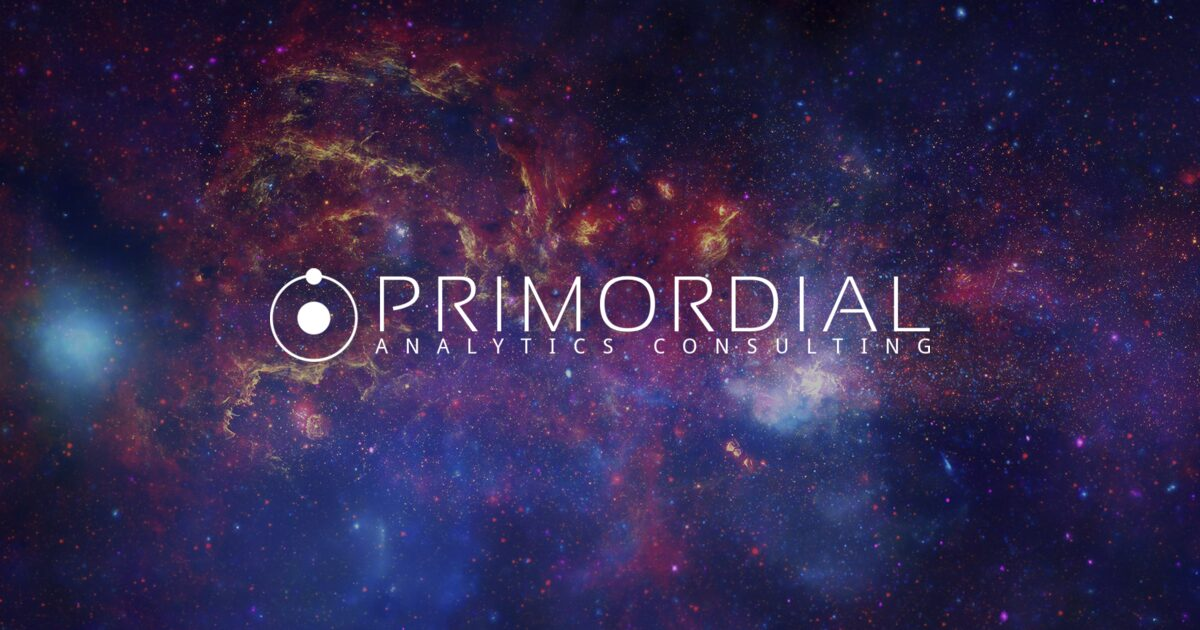
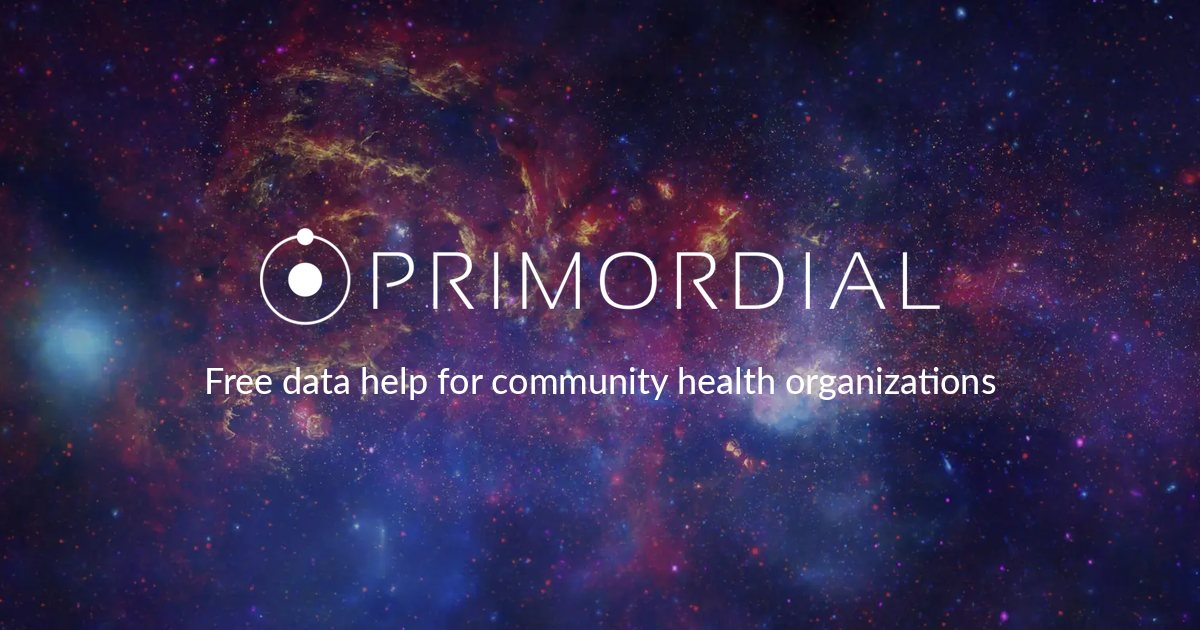
fix: remove fabricated team members and testimonials
Only Ken Cavagnolo is real, and the four testimonials were placeholders.
Remove the invented people, their photos, the testimonials collection
and its home page section, and team claims in case studies 03 and 05.
Reframe the about, people and hero copy as principal-led (you work
directly with Ken) and enable his real social links. The default share
image drops the "Analytics Consulting" tagline.

Changed region(s): [[0.1542, 0.3619, 0.8325, 0.6333]]

diff --git a/people.html b/people.html
@@ -1,7 +1,7 @@
 ---
 layout: default
-title: Our people and our story
-description: "A small Portland team founded in 2018 that has volunteered its data skills for community health organizations since 2024. Meet us, and find out how to volunteer too."
+title: About Primordial Analytics
+description: "Primordial Analytics is principal-led: you work directly with founder and data scientist Ken Cavagnolo, in Portland, Oregon. Free help for community health organizations since 2024. Find out how to volunteer too."
 permalink: /people.html
 ---
 
@@ -10,14 +10,25 @@ permalink: /people.html
         <!-- Intro -->
         <div class="row mb-5 align-items-center">
             <div class="col-lg-6 pe-lg-5 mb-5 mb-lg-0">
-                <h2 class="display-5 fw-bold mb-4 lh-sm">A small team, glad to be here.</h2>
-                <p class="lead text-muted fs-4 mb-4">Primordial Analytics was incorporated on August 9, 2018. We began as a small group of data scientists, engineers, and AI experts doing client work for people who already knew us as individuals.</p>
-                <p class="text-muted fs-5 lh-lg mb-4">In 2024 we turned our attention to volunteer data science for non-profit community health organizations, and we kept serving our longtime clients on a smaller scale.</p>
+                <h2 class="display-5 fw-bold mb-4 lh-sm">Principal-led, on purpose.</h2>
+                <p class="lead text-muted fs-4 mb-4">Primordial Analytics was founded on August 9, 2018. You work directly with Ken Cavagnolo, the founder and data scientist, who does the work himself. There are no hand-offs to juniors, and one accountable person answers for your data. That suits small, high-trust data work. He started out doing client work for people who already knew him.</p>
+                <p class="text-muted fs-5 lh-lg mb-4">In 2024 the firm turned its attention to free volunteer data science for non-profit community health organizations, and it kept doing some paid work for longtime clients.</p>
                 <p class="text-muted fs-5 lh-lg">This has been a hard year for the community health organizations we exist to serve. Fewer people asked for our help, which makes sense: even free analytics costs the hours of a person to explain the data and act on it. <a href="{{ site.baseurl }}/blog/anniversary-8/">We wrote about it on our eighth anniversary</a>.</p>
             </div>
             <div class="col-lg-6">
-                <div class="ratio ratio-4x3 shadow-lg rounded-4 overflow-hidden">
-                    <img src="/img/stock/team-collab.webp" width="1200" height="800" loading="lazy" class="object-fit-cover" alt="People working on laptops around a wooden table">
+                {% assign ken = site.team | first %}
+                <div class="card border-0 shadow-lg rounded-4 bg-light p-4 p-md-5 text-center">
+                    <div class="mb-4">
+                        <img class="rounded-circle shadow-sm object-fit-cover" src="{{ site.baseurl }}/img/team/{{ ken.pic }}" alt="" width="150" height="150" loading="lazy" style="width: 150px; height: 150px; border: 4px solid #fff;">
+                    </div>
+                    <h3 class="h4 fw-bold mb-1">{{ ken.name }}</h3>
+                    <p class="text-primary fw-semibold mb-3">{{ ken.position }}</p>
+                    <p class="text-muted fs-6 lh-lg mb-3">{{ ken.blurb }}</p>
+                    <ul class="list-inline mb-0">
+                        {% for network in ken.social %}
+                        <li class="list-inline-item"><a target="_blank" rel="noopener" href="{{ network.url }}" aria-label="{% if network.label == 'Website' %}{{ ken.name }}'s website{% else %}{{ ken.name }} on {{ network.label }}{% endif %} (opens in a new tab)">{{ network.label }}</a></li>
+                        {% endfor %}
+                    </ul>
                 </div>
             </div>
         </div>
@@ -47,7 +58,7 @@ permalink: /people.html
                             <svg width="40" height="40" viewBox="0 0 24 24" fill="none" stroke="currentColor" stroke-width="1.5" stroke-linecap="round" stroke-linejoin="round" class="text-primary" aria-hidden="true"><circle cx="18" cy="5" r="3"></circle><circle cx="6" cy="12" r="3"></circle><circle cx="18" cy="19" r="3"></circle><line x1="8.59" y1="13.51" x2="15.42" y2="17.49"></line><line x1="15.41" y1="6.51" x2="8.59" y2="10.49"></line></svg>
                         </div>
                         <h3 class="card-title h4 fw-bold mb-3">Share what we build</h3>
-                        <p class="card-text text-muted fs-6 lh-lg">We would like busy teams to be able to pick up what we make on a Tuesday afternoon, without a kickoff meeting.</p>
+                        <p class="card-text text-muted fs-6 lh-lg">We would like busy health teams to be able to pick up what we make on a Tuesday afternoon, without a kickoff meeting.</p>
                     </div>
                 </div>
             </div>
@@ -74,11 +85,11 @@ permalink: /people.html
         <div class="row justify-content-center">
             <div class="col-lg-9">
                 <h2 class="display-5 fw-bold mb-4 lh-sm">Want to lend your skills?</h2>
-                <p class="lead text-muted fs-4 mb-4">We are always glad to hear from fellow data enthusiasts who want to make healthcare better for everyone.</p>
+                <p class="lead text-muted fs-4 mb-4">We welcome volunteers who do end-to-end data science. We are glad to hear from fellow data enthusiasts who want to make healthcare better for everyone.</p>
                 <h3 class="h4 fw-bold mb-2">Who we are looking for</h3>
                 <p class="text-muted fs-5 lh-lg mb-4">Fellow data enthusiasts: anyone who enjoys turning a messy spreadsheet into something a busy person can use.</p>
                 <h3 class="h4 fw-bold mb-2">What it is</h3>
-                <p class="text-muted fs-5 lh-lg mb-4">Volunteers help us offer free data science to community health organizations. The asks are small by design, so tell us what you are good at and how much time you might have.</p>
+                <p class="text-muted fs-5 lh-lg mb-4">Volunteers help us offer free data science to community health organizations, and the work is the full end-to-end job: framing the question, finding and cleaning data, engineering pipelines, analysis and modeling, visualization, and explaining the results to the people who will act on them. The first asks are small by design, so tell us what you are good at and how much time you might have.</p>
                 <h3 class="h4 fw-bold mb-2">How to raise your hand</h3>
                 <p class="text-muted fs-5 lh-lg mb-4">Send us a note through the contact form. Say you would like to volunteer, and tell us a little about your skills.</p>
                 <a href="{{ site.baseurl }}/#contact" class="btn btn-primary btn-lg px-5 py-3 text-uppercase fw-bold rounded-pill shadow text-dark">Volunteer with us</a>
@@ -96,9 +107,9 @@ permalink: /people.html
                     <img src="/img/stock/cosmos.webp" width="1600" height="1065" loading="lazy" class="position-absolute top-0 start-0 w-100 h-100 object-fit-cover" alt="">
                     <div class="position-absolute top-0 start-0 w-100 h-100 bg-dark opacity-75"></div>
                     <div class="position-relative z-1 py-4">
-                        <h2 class="fw-bold mb-3 display-6">Meet the team</h2>
-                        <p class="lead mb-4 text-white fs-4">Get to know the people behind Primordial Analytics.</p>
-                        <a href="{{ site.baseurl }}/#about" class="btn btn-primary btn-lg px-5 py-3 text-uppercase fw-bold rounded-pill shadow mt-3 text-dark">View Our Team</a>
+                        <h2 class="fw-bold mb-3 display-6">Have a data question?</h2>
+                        <p class="lead mb-4 text-white fs-4">Free data help. We usually reply within a few business days.</p>
+                        <a href="{{ site.baseurl }}/community-health-data-help/" class="btn btn-primary btn-lg px-5 py-3 text-uppercase fw-bold rounded-pill shadow mt-3 text-dark">Ask for free data help</a>
                     </div>
                 </div>
             </div>

diff --git a/_includes/about.html b/_includes/about.html
@@ -5,7 +5,7 @@
         <div class="row mb-5 text-center">
             <div class="col-lg-8 offset-lg-2">
                 <h2 class="display-5 fw-bold mb-3">About Us</h2>
-                <p class="lead text-muted fs-4">A small Portland team that gives its data skills to community health.</p>
+                <p class="lead text-muted fs-4">Principal-led data science from Portland, free for community health.</p>
             </div>
         </div>
         
@@ -18,7 +18,7 @@
                     <div class="tufte-year">2018</div>
                     <div class="tufte-content">
                         <h3 class="tufte-title">We opened our doors</h3>
-                        <p class="tufte-desc">Primordial Analytics was incorporated on August 9, 2018, by a small group of data scientists, engineers, and AI experts. Our first clients already knew us as individuals.</p>
+                        <p class="tufte-desc">Primordial Analytics was founded on August 9, 2018, by Ken Cavagnolo, a data scientist. The first clients already knew him personally.</p>
                     </div>
                 </div>
 
@@ -27,7 +27,7 @@
                     <div class="tufte-year">2024</div>
                     <div class="tufte-content">
                         <h3 class="tufte-title">We turned to volunteer work</h3>
-                        <p class="tufte-desc">We shifted our focus to volunteer data science for non-profit community health organizations, and kept serving our longtime clients on a smaller scale.</p>
+                        <p class="tufte-desc">The firm shifted its focus to free volunteer data science for non-profit community health organizations, and kept doing some paid work for longtime clients.</p>
                     </div>
                 </div>
 
@@ -37,7 +37,7 @@
                     <div class="tufte-content">
                         <h3 class="tufte-title">Quieter, and still here</h3>
                         <p class="tufte-desc">It has been a hard year for community health organizations, so we are keeping our help small and light: a chart, a spreadsheet check, a short call.</p>
-                        <a href="{{ site.baseurl }}/community-health-data-help/" class="tufte-link">Ask for free data help &rarr;</a>
+                        <a href="{{ site.baseurl }}/community-health-data-help/" class="tufte-link d-inline-block py-1">Ask for free data help &rarr;</a>
                     </div>
                 </div>
             </div>
@@ -50,36 +50,33 @@
             </div>
         </div>
 
-        <!-- Team Cards -->
-        <div class="row g-4 justify-content-center mb-5">
-            {% for person in site.team %}
-            <div class="col-md-6 col-lg-3">
-                <div class="card h-100 border-0 shadow-sm rounded-4 bg-white text-center p-4 transition-hover">
-                    <div class="mb-4">
-                        <img class="rounded-circle shadow-sm object-fit-cover" src="{{ site.baseurl }}/img/team/{{ person.pic }}" alt="" width="150" height="150" loading="lazy" style="width: 150px; height: 150px; border: 4px solid #fff;">
-                    </div>
-                    <h3 class="h4 fw-bold mb-1">{{ person.name }}</h3>
-                    <p class="text-primary fw-semibold mb-3">{{ person.position }}</p>
-                    <p class="text-muted fs-6 lh-lg mb-4">{{ person.blurb }}</p>
-                    <div class="mt-auto">
-                        <ul class="list-inline mb-0">
-                            {% for network in person.social %}
-                            <li class="list-inline-item">
-                                <a target="_blank" rel="noopener" href="{{ network.url }}" aria-label="{{ person.name }}, external profile (opens in a new tab)" class="btn btn-light btn-sm rounded-circle shadow-sm d-inline-flex align-items-center justify-content-center" style="width: 40px; height: 40px;">
-                                    <svg width="18" height="18" viewBox="0 0 24 24" fill="none" stroke="currentColor" stroke-width="2" stroke-linecap="round" stroke-linejoin="round" class="text-dark" aria-hidden="true"><path d="M10 13a5 5 0 0 0 7.54.54l3-3a5 5 0 0 0-7.07-7.07l-1.72 1.71"></path><path d="M14 11a5 5 0 0 0-7.54-.54l-3 3a5 5 0 0 0 7.07 7.07l1.71-1.71"></path></svg>
-                                </a>
-                            </li>
-                            {% endfor %}
-                        </ul>
+        <!-- Who you'll work with -->
+        {% assign ken = site.team | first %}
+        <div class="row justify-content-center mb-5">
+            <div class="col-lg-10">
+                <div class="card border-0 shadow-sm rounded-4 bg-white p-4 p-md-5">
+                    <div class="row align-items-center g-4">
+                        <div class="col-md-4 text-center">
+                            <img class="rounded-circle shadow-sm object-fit-cover" src="{{ site.baseurl }}/img/team/{{ ken.pic }}" alt="" width="150" height="150" loading="lazy" style="width: 150px; height: 150px; border: 4px solid #fff;">
+                        </div>
+                        <div class="col-md-8">
+                            <h3 class="h4 fw-bold mb-1">Who you'll work with</h3>
+                            <p class="text-primary fw-semibold mb-3">{{ ken.name }}, {{ ken.position }}</p>
+                            <p class="text-muted fs-6 lh-lg mb-3">Primordial Analytics is principal-led: you work directly with {{ ken.name }}, the founder, who does the work himself. There are no hand-offs to juniors, and one accountable person answers for your data. {{ ken.blurb }} If anyone else works on your project, we will tell you up front. <a href="{{ site.baseurl }}/people.html#volunteer">Want to volunteer?</a></p>
+                            <ul class="list-inline mb-0">
+                                {% for network in ken.social %}
+                                <li class="list-inline-item"><a target="_blank" rel="noopener" href="{{ network.url }}" aria-label="{% if network.label == 'Website' %}{{ ken.name }}'s website{% else %}{{ ken.name }} on {{ network.label }}{% endif %} (opens in a new tab)">{{ network.label }}</a></li>
+                                {% endfor %}
+                            </ul>
+                        </div>
                     </div>
                 </div>
             </div>
-            {% endfor %}
         </div>
         <div class="row">
             <div class="col-lg-10 mx-auto">
                 <div class="bg-white p-5 rounded-4 shadow-sm border border-light-subtle text-center">
-                    <p class="text-muted fs-5 lh-lg mb-0">We still work with a few longtime clients on paid projects. If you are one of them, or you have a paid project in mind, <a href="{{ site.baseurl }}/#contact">get in touch</a> and we will talk it over.</p>
+                    <p class="text-muted fs-5 lh-lg mb-0">We still do some paid work for longtime clients. If you are one of them, or you have a paid project in mind, <a href="{{ site.baseurl }}/#contact">get in touch</a> and we will talk it over.</p>
                 </div>
             </div>
         </div>

diff --git a/_includes/services.html b/_includes/services.html
@@ -48,14 +48,14 @@
                 </a>
             </div>
             <div class="col-md-6 col-lg-3">
-                <a href="{{ site.baseurl }}/community-health-data-help/#small-asks" class="text-decoration-none">
+                <a href="{{ site.baseurl }}/blog/medicaid-what-if-template/" class="text-decoration-none">
                     <div class="card h-100 border-0 shadow-sm rounded-4 bg-light transition-hover">
                         <div class="card-body p-4 p-xl-5">
                             <div class="bg-white rounded-circle d-inline-flex align-items-center justify-content-center mb-4 shadow-sm" style="width: 90px; height: 90px;">
                                 <svg width="40" height="40" viewBox="0 0 24 24" fill="none" stroke="currentColor" stroke-width="1.5" stroke-linecap="round" stroke-linejoin="round" class="text-primary" aria-hidden="true"><path d="M20.84 4.61a5.5 5.5 0 0 0-7.78 0L12 5.67l-1.06-1.06a5.5 5.5 0 0 0-7.78 7.78l1.06 1.06L12 21.23l7.78-7.78 1.06-1.06a5.5 5.5 0 0 0 0-7.78z"></path></svg>
                             </div>
                             <h3 class="card-title h4 fw-bold mb-3 text-dark">A Medicaid coverage what-if</h3>
-                            <p class="card-text text-muted fs-6 lh-lg">A simple what-if on your own counts, summarized or de-identified, to get a rough sense of how coverage changes could reach your patients before the dates arrive.</p>
+                            <p class="card-text text-muted fs-6 lh-lg">A simple what-if on your own counts, summarized or de-identified, to get a rough sense of how coverage changes could reach your patients before the dates arrive. Try our free spreadsheet template first.</p>
                         </div>
                     </div>
                 </a>
@@ -63,7 +63,9 @@
         </div>
         <div class="row mt-5 text-center">
             <div class="col-lg-8 offset-lg-2">
-                <p class="text-muted fs-5 lh-lg mb-0">Free help is for non-profit community health organizations. <a href="{{ site.baseurl }}/community-health-data-help/">Here is who it is for and how it works</a>. Are you one of our longtime clients, or do you have a paid project in mind? <a href="{{ site.baseurl }}/#contact">Get in touch</a>. Want to lend your own skills? <a href="{{ site.baseurl }}/people.html#volunteer">Volunteer with us</a>.</p>
+                <p class="text-muted fs-5 lh-lg mb-3">Everyone qualifies for free help, pending a quick conflict-of-interest check. We built it for community health organizations. <a href="{{ site.baseurl }}/community-health-data-help/">Here is who it is for and how it works</a>.</p>
+                <p class="text-muted fs-5 lh-lg mb-3">Not ready to ask? Start with our <a href="{{ site.baseurl }}/blog/data-checklist-before-you-report/">data checklist to run before you report</a>, or see <a href="{{ site.baseurl }}/projects.html">worked examples on public data</a> of the kind of analysis we do.</p>
+                <p class="text-muted fs-5 lh-lg mb-0">Are you one of our longtime clients, or do you have a paid project in mind? <a href="{{ site.baseurl }}/#contact">Get in touch</a>. Want to lend your own skills? <a href="{{ site.baseurl }}/people.html#volunteer">Volunteer with us</a>. We usually reply within a few business days.</p>
             </div>
         </div>
     </div>

diff --git a/_includes/header.html b/_includes/header.html
@@ -9,7 +9,7 @@
         <div class="d-flex align-items-center justify-content-center h-100 text-center">
             <div class="text-white col-lg-10">
                 <h1 class="display-4 fw-bold mb-4 text-shadow">Free data help for community health organizations</h1>
-                <p class="fs-4 fw-light text-white mb-5 text-shadow">We are a small team of volunteer data scientists in Portland, Oregon. A single chart, a spreadsheet check, or a short call: bring us a small question.</p>
+                <p class="fs-4 fw-light text-white mb-5 text-shadow">Free, principal-led data science for community health organizations, from Portland, Oregon. Bring us a single chart, a spreadsheet check, or a short call. We usually reply within a few business days.</p>
                 <a href="/community-health-data-help/" class="btn btn-primary btn-lg px-5 py-3 text-uppercase fw-bold rounded-pill shadow-lg mt-3 text-dark">Ask for free data help</a>
                 <a href="/#contact" class="btn btn-outline-light btn-lg px-5 py-3 text-uppercase fw-bold rounded-pill mt-3 ms-sm-2">Contact us</a>
             </div>

diff --git a/gulpfile.js b/gulpfile.js
@@ -115,5 +115,5 @@ gulp.task('browserSync', function() {
 gulp.task('dev', gulp.series('default', 'browserSync', function() {
   gulp.watch('./scss/**/*.scss', gulp.series('css', 'jekyll-rebuild'));
   gulp.watch('./js/*.js', gulp.series('js', 'jekyll-rebuild'));
-  gulp.watch(['./*.html', './_includes/*.html', './_layouts/*.html', './_posts/*', './_casestudies/*', './_team/*', './_testimonials/*'], gulp.series('jekyll-rebuild'));
+  gulp.watch(['./*.html', './_includes/*.html', './_layouts/*.html', './_posts/*', './_casestudies/*', './_team/*'], gulp.series('jekyll-rebuild'));
 }));

diff --git a/index.html b/index.html
@@ -1,5 +1,5 @@
 ---
 layout: home
 title: "Free volunteer data science for community health non-profits"
-description: "Free volunteer data science for non-profit community health organizations, from a small Portland, Oregon team. We still work with our longtime clients too."
+description: "Free volunteer data science for non-profit community health organizations, from Ken Cavagnolo in Portland, Oregon. Some paid work for longtime clients too."
 ---

diff --git a/_layouts/home.html b/_layouts/home.html
@@ -14,7 +14,6 @@
 {% include services.html %}
 {% include about.html %}
 {% include latest_posts.html %}
-{% include testimonials.html %}
 {% include contact.html %}
 </main>
 

diff --git a/_casestudies/03-competitor-intel.md b/_casestudies/03-competitor-intel.md
@@ -6,13 +6,14 @@ layout: default
 modal-id: 3
 date: 2018-07-01
 thumbnail: competitor-thumbnail.png
+kind: commercial
 ---
 
 <div class="container py-5" style="max-width: 800px;" markdown="1">
 
 **Client's Problem:** _"We operate in a hypercompetitive industry where our products have slim margins, and the differentiation within a market is service-level and not product-level. Our issue is not knowing how competitor behaviors and strategies impact our sales. We struggle with the basics, like pricing, to capture the value proposition of our service over competitors. Even simpler things, like when and how to execute product decisions, are poorly understood outside of the tribal knowledge of our product managers, making long-term strategic decisions extremely difficult. All of this work is also very labor intensive, and the drudgery of it all distracts our talented people from doing other, more valuable work."_
 
-We have a couple of former product managers on our leadership team, a widespread problem for retailers of any scale. Most companies avoid the problem of competitor intelligence altogether by washing it out (sometimes rightly) using one of the standard product management policies, e.g., margin or premium. During scoping, we determined there was sufficient evidence and data to pursue a more sophisticated approach, which was ultimately adopted.
+Competitor intelligence is a widespread problem for retailers of any scale. Most companies avoid the problem of competitor intelligence altogether by washing it out (sometimes rightly) using one of the standard product management policies, e.g., margin or premium. During scoping, we determined there was sufficient evidence and data to pursue a more sophisticated approach, which was ultimately adopted.
 
 The Client was a large national company, and they did indeed have many competitors. Our first step was to use the Client's existing industry data to determine if there were patterns in sales, demand, and competitor data. We found signatures of competitor behavior impacting sales that were well-described by game theory. With this discovery, we automated the codification of the rules and actions seen in the games to build a data set for modeling. Using this game characterization data, we created machine learning-based models ensembled to predict when, where, and how a competitor would make moves to capture demand.
 

diff --git a/_casestudies/05-department-creation.md b/_casestudies/05-department-creation.md
@@ -6,6 +6,7 @@ layout: default
 modal-id: 5
 date: 2018-07-01
 thumbnail: department-thumbnail.png
+kind: commercial
 ---
 
 <div class="container py-5" style="max-width: 800px;" markdown="1">
@@ -18,7 +19,7 @@ The first step was learning and enunciating the Client's vision and mission rega
 
 We conducted a thorough self-audit of the existing teams (effort-value of existing projects, a group S.W.O.T., a company P.E.S.T., readiness, competitive advantages). With these inputs in hand, they were synthesized into strategic focuses for the new AA group. Alongside the leaders of the reporting unit, we crafted near- and long-term objectives for the new group to pursue. We then sliced each near-term objective into goals with defined metrics/KPIs and estimated timelines.
 
-A significant part of the road map was people and their development. The short-term solution was embedding Primordial teams to do project work while also assisting in hiring experienced people to lead the new AA group. Another major hurdle was the deployment of new technologies and development tools (e.g., AWS, Docker, GitHub, Airflow, Presto) to create efficiencies for the new group. The Primordial teams owned the roll-out and training on these systems for seamless handover.
+A significant part of the road map was people and their development. The short-term solution was for us to embed with the group to do project work while also assisting in hiring experienced people to lead the new AA group. Another major hurdle was the deployment of new technologies and development tools (e.g., AWS, Docker, GitHub, Airflow, Presto) to create efficiencies for the new group. We owned the roll-out and training on these systems for seamless handover.
 
 {% include casestudy_cta.html %}
 

diff --git a/_team/chief_scientist.md b/_team/chief_scientist.md
@@ -2,13 +2,13 @@
 name: Ken Cavagnolo
 pic: cds.webp
 position: Chief Scientist
-description: "Ken Cavagnolo is the Chief Scientist at Primordial Analytics, committed to professional cultures of data-driven decision-making and empowered teams."
-blurb: Ken is passionate about staying current with the latest developments in data science and is committed to professional cultures of data-driven decision-making and empowered teams.
-#social:
-#  - icon: fab fa-linkedin-in
-#    url: https://www.linkedin.com/in/kencavagnolo
-#  - icon: fab fa-github-alt
-#    url: https://github.com/kcavagnolo
-#  - icon: fas fa-magic
-#    url: https://www.kcavagnolo.com
+description: "Ken Cavagnolo is the Chief Scientist at Primordial Analytics and the person who does the work."
+blurb: Ken is a data scientist who likes the whole job, from working out what the question really is, through wrangling the data and building the analysis, to explaining what it means in plain words.
+social:
+  - label: LinkedIn
+    url: https://www.linkedin.com/in/kencavagnolo
+  - label: GitHub
+    url: https://github.com/kcavagnolo
+  - label: Website
+    url: https://www.kcavagnolo.com
 ---

diff --git a/README.md b/README.md
@@ -15,7 +15,7 @@ git push origin --tags
 
 ### HTML5 Movie
 
-One of our founders has an affinity for cosmology and astrophysics: it's in the name, the logo, the font face, and our theme. So that movie on the front page, how did we make that? It's super simple:
+The founder has an affinity for cosmology and astrophysics: it's in the name, the logo, the font face, and our theme. So that movie on the front page, how did we make that? It's super simple:
 
 ```bash
 # get a movie file to work
